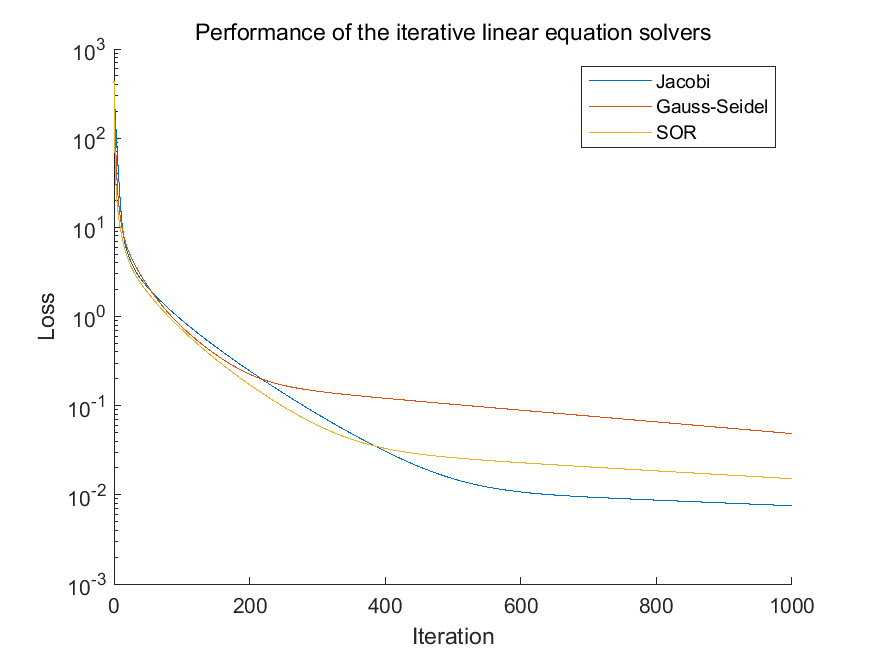
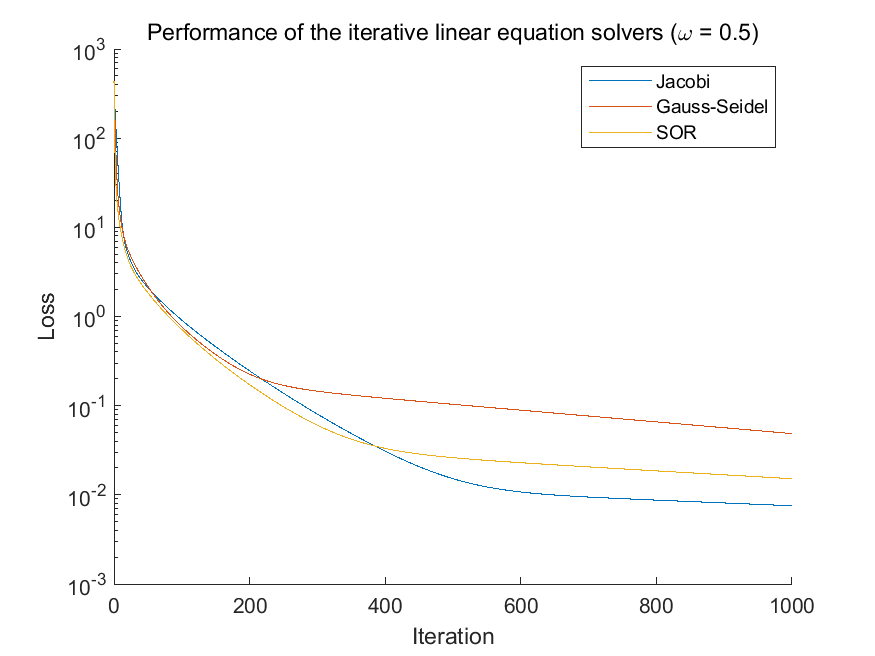
Renamed lsq to lsqr.

Changed region(s): [[0.1543, 0.0305, 0.864, 0.061]]

diff --git a/MATLAB/plot_performance.m b/MATLAB/plot_performance.m
@@ -12,9 +12,9 @@ b = a * x;
 h=figure;
 ax=axes(h);
 hold(ax,"on");
-[~, ~, history, stop_iter] = quadprog_to_lsq_wrapper(a, b, @pgd_quadprognonneg);
+[~, ~, history, stop_iter] = quadprog_to_lsqr_wrapper(a, b, @pgd_quadprognonneg);
 plot(ax,0:stop_iter, cell2mat(history.feval),"DisplayName","Least Squares Projected Gradient Descent");
-[~, ~, history, stop_iter] = quadprog_to_lsq_wrapper(a, b, @multipupd_quadprognonneg);
+[~, ~, history, stop_iter] = quadprog_to_lsqr_wrapper(a, b, @multipupd_quadprognonneg);
 plot(ax,0:stop_iter, cell2mat(history.feval),"DisplayName","Least Squares Multiplicative Update");
 [~, ~, history, stop_iter] = gd_kldivergence(a, b);
 plot(ax,0:stop_iter, cell2mat(history.feval) + sum(b .* log(b) - b),"DisplayName","KL Divergence Gradient Descent");
@@ -40,10 +40,11 @@ h2=figure;
 ax2=axes(h2);
 hold(ax2,"on");
 [~, ~, history, stop_iter] = bisection_fsolve(@(x) a * x - b, 0, GuessRange=[0, 1]);
-plot(ax2,0:stop_iter, cell2mat(history.feval),"DisplayName","Bisection");
+plot(ax2,0:stop_iter, abs(cell2mat(history.feval)),"DisplayName","Bisection");
+ax2.YScale = "log";
 title(ax2,"Performance of the scalar equation solvers");
 xlabel(ax2,"Iteration");
-ylabel(ax2,"Function value");
+ylabel(ax2,"Loss");
 legend(ax2);
 hold(ax2,"off");
 saveas(h2,"figs/scalar_eqn.png");
@@ -59,14 +60,14 @@ b = a * x;
 h3=figure;
 ax3=axes(h3);
 hold(ax3,"on");
-[~, ~, history, stop_iter] = jacobi_lsq(a, b);
+[~, ~, history, stop_iter] = jacobi_lsqr(a, b);
 plot(ax3,0:stop_iter, cell2mat(history.feval),"DisplayName","Jacobi");
-[~, ~, history, stop_iter] = gauss_seidel_lsq(a, b);
+[~, ~, history, stop_iter] = gauss_seidel_lsqr(a, b);
 plot(ax3,0:stop_iter, cell2mat(history.feval),"DisplayName","Gauss-Seidel");
-[~, ~, history, stop_iter] = sor_lsq(a, b);
+[~, ~, history, stop_iter] = sor_lsqr(a, b);
 plot(ax3,0:stop_iter, cell2mat(history.feval),"DisplayName","SOR");
 ax3.YScale = "log";
-title(ax3,"Performance of the iterative linear equation solvers");
+title(ax3,"Performance of the iterative linear equation solvers (\omega = 0.5)");
 xlabel(ax3,"Iteration");
 ylabel(ax3,"Loss");
 legend(ax3);

diff --git a/MATLAB/src/sor_lsqr.m b/MATLAB/src/sor_lsqr.m
@@ -1,5 +1,5 @@
-function [x, feval, history, stop_iter] = jacobi_lsq(A, b, options)
-    %% Use Jacobi Fixed-Point Iteration method to solve least squares problem
+function [x, feval, history, stop_iter] = sor_lsqr(A, b, options)
+    %% Use SOR(Successive Over-Relaxation) Fixed-Point Iteration method to solve least squares problem
     % Author: Midden Vexu
     % The problem is min ||Ax - b||_2^2
     % where A is a matrix and b is a vector.
@@ -28,7 +28,7 @@ function [x, feval, history, stop_iter] = jacobi_lsq(A, b, options)
         options.OptimalityTolerance double {mustBePositive}...
             = 1e-6
         options.dampingCoeff double...
-            {mustBeNonnegative, mustBeLessThanOrEqual(options.dampingCoeff, 1)}...
+            {mustBeNonnegative, mustBeLessThanOrEqual(options.dampingCoeff, 2)}...
             = 0.5
         options.verbose logical...
             {mustBeNumericOrLogical,mustBeMember(options.verbose, [0, 1])}...
@@ -49,11 +49,11 @@ function [x, feval, history, stop_iter] = jacobi_lsq(A, b, options)
         'The number of columns of A must be equal to the length of x0');
     stop_reason = 'Unexpected stop';
 
-    n = size(A, 2);
     x = options.x0;
+    d = diag(diag(A));
+    l = tril(A, -1);
+    u = triu(A, 1);
     feval_fun = @(x) norm(A * x - b, 2);
-    d = eye(n) .* A;
-    r = A - d;
     previous_feval = feval_fun(x);
     history.x = cell(1, options.MaxIterations + 1);
     history.feval = cell(1, options.MaxIterations + 1);
@@ -64,7 +64,7 @@ function [x, feval, history, stop_iter] = jacobi_lsq(A, b, options)
     end
     
     for i = 1:options.MaxIterations
-        x = options.dampingCoeff * x + (1 - options.dampingCoeff) * (d \ (b - r * x));
+        x = (d + options.dampingCoeff * l) \ ((1 - options.dampingCoeff) * d - options.dampingCoeff * u) * x + options.dampingCoeff * ((d + options.dampingCoeff * l) \ b);
 
         feval = feval_fun(x);
         history.x{i + 1} = x;

diff --git a/MATLAB/src/gauss_seidel_lsqr.m b/MATLAB/src/gauss_seidel_lsqr.m
@@ -1,5 +1,5 @@
-function [x, feval, history, stop_iter] = sor_lsq(A, b, options)
-    %% Use SOR(Successive Over-Relaxation) Fixed-Point Iteration method to solve least squares problem
+function [x, feval, history, stop_iter] = gauss_seidel_lsqr(A, b, options)
+    %% Use Gauss-Seidel Fixed-Point Iteration method to solve least squares problem
     % Author: Midden Vexu
     % The problem is min ||Ax - b||_2^2
     % where A is a matrix and b is a vector.
@@ -28,7 +28,7 @@ function [x, feval, history, stop_iter] = sor_lsq(A, b, options)
         options.OptimalityTolerance double {mustBePositive}...
             = 1e-6
         options.dampingCoeff double...
-            {mustBeNonnegative, mustBeLessThanOrEqual(options.dampingCoeff, 2)}...
+            {mustBeNonnegative, mustBeLessThanOrEqual(options.dampingCoeff, 1)}...
             = 0.5
         options.verbose logical...
             {mustBeNumericOrLogical,mustBeMember(options.verbose, [0, 1])}...
@@ -50,8 +50,7 @@ function [x, feval, history, stop_iter] = sor_lsq(A, b, options)
     stop_reason = 'Unexpected stop';
 
     x = options.x0;
-    d = diag(diag(A));
-    l = tril(A, -1);
+    d_l = tril(A, 0);
     u = triu(A, 1);
     feval_fun = @(x) norm(A * x - b, 2);
     previous_feval = feval_fun(x);
@@ -64,7 +63,7 @@ function [x, feval, history, stop_iter] = sor_lsq(A, b, options)
     end
     
     for i = 1:options.MaxIterations
-        x = (d + options.dampingCoeff * l) \ ((1 - options.dampingCoeff) * d - options.dampingCoeff * u) * x + options.dampingCoeff * ((d + options.dampingCoeff * l) \ b);
+        x = options.dampingCoeff * x + (1 - options.dampingCoeff) * (d_l \ b - d_l \ (u * x));
 
         feval = feval_fun(x);
         history.x{i + 1} = x;

diff --git a/MATLAB/src/jacobi_lsqr.m b/MATLAB/src/jacobi_lsqr.m
@@ -1,5 +1,5 @@
-function [x, feval, history, stop_iter] = gauss_seidel_lsq(A, b, options)
-    %% Use Gauss-Seidel Fixed-Point Iteration method to solve least squares problem
+function [x, feval, history, stop_iter] = jacobi_lsqr(A, b, options)
+    %% Use Jacobi Fixed-Point Iteration method to solve least squares problem
     % Author: Midden Vexu
     % The problem is min ||Ax - b||_2^2
     % where A is a matrix and b is a vector.
@@ -49,10 +49,11 @@ function [x, feval, history, stop_iter] = gauss_seidel_lsq(A, b, options)
         'The number of columns of A must be equal to the length of x0');
     stop_reason = 'Unexpected stop';
 
+    n = size(A, 2);
     x = options.x0;
-    d_l = tril(A, 0);
-    u = triu(A, 1);
     feval_fun = @(x) norm(A * x - b, 2);
+    d = eye(n) .* A;
+    r = A - d;
     previous_feval = feval_fun(x);
     history.x = cell(1, options.MaxIterations + 1);
     history.feval = cell(1, options.MaxIterations + 1);
@@ -63,7 +64,7 @@ function [x, feval, history, stop_iter] = gauss_seidel_lsq(A, b, options)
     end
     
     for i = 1:options.MaxIterations
-        x = options.dampingCoeff * x + (1 - options.dampingCoeff) * (d_l \ b - d_l \ (u * x));
+        x = options.dampingCoeff * x + (1 - options.dampingCoeff) * (d \ (b - r * x));
 
         feval = feval_fun(x);
         history.x{i + 1} = x;

diff --git a/MATLAB/tests/LinearEquationSolverTest.m b/MATLAB/tests/LinearEquationSolverTest.m
@@ -36,19 +36,19 @@ classdef LinearEquationSolverTest < matlab.unittest.TestCase
         % Test methods
         
         function jacobiTest(testCase)
-            sol = jacobi_lsq(testCase.A, testCase.b,...
+            sol = jacobi_lsqr(testCase.A, testCase.b,...
                 OptimalityTolerance=1e-4, MaxIterations=2000);
             verifySolution(testCase, sol);
         end
 
         function gaussSeidelTest(testCase)
-            sol = gauss_seidel_lsq(testCase.A, testCase.b,...
+            sol = gauss_seidel_lsqr(testCase.A, testCase.b,...
                 OptimalityTolerance=1e-4, MaxIterations=2000);
             verifySolution(testCase, sol);
         end
 
         function sorTest(testCase)
-            sol = sor_lsq(testCase.A, testCase.b,...
+            sol = sor_lsqr(testCase.A, testCase.b,...
                 OptimalityTolerance=1e-4, MaxIterations=2000);
             verifySolution(testCase, sol);
         end

diff --git a/MATLAB/tests/NonnegativeLinearEquationSolverTest.m b/MATLAB/tests/NonnegativeLinearEquationSolverTest.m
@@ -47,13 +47,13 @@ classdef NonnegativeLinearEquationSolverTest < matlab.unittest.TestCase
         end
 
         function quadprogToLeastSquareWrapperTest(testCase)
-            sol = quadprog_to_lsq_wrapper(testCase.A, testCase.b,...
+            sol = quadprog_to_lsqr_wrapper(testCase.A, testCase.b,...
                 @pgd_quadprognonneg, 0, OptimalityTolerance=1e-4);
             verifySolution(testCase, sol);
         end
 
         function multiplicativeUpdateTest(testCase)
-            sol = quadprog_to_lsq_wrapper(testCase.A, testCase.b,...
+            sol = quadprog_to_lsqr_wrapper(testCase.A, testCase.b,...
                 @multipupd_quadprognonneg, 0, OptimalityTolerance=1e-4);
             verifySolution(testCase, sol);
         end

diff --git a/MATLAB/src/quadprog_to_lsqr_wrapper.m b/MATLAB/src/quadprog_to_lsqr_wrapper.m
@@ -1,4 +1,4 @@
-function [x, feval, history, stop_iter] = quadprog_to_lsq_wrapper(A, b, quadprog_solver_func, lambd, varargin)
+function [x, feval, history, stop_iter] = quadprog_to_lsqr_wrapper(A, b, quadprog_solver_func, lambd, varargin)
     % Wrapper for quadprog to solve the nonnegative least squares problem
     % min_x 1/2*||Ax - b||_2^2 + lambd*||x||_1 s.t. x >= 0
     % by converting it into

diff --git a/README.md b/README.md
@@ -41,13 +41,13 @@ Here are my implementation of some useful solvers for mainly optimization proble
 - [x] Non-negative quadratic programming solver ([MATLAB](./MATLAB/src/multipupd_quadprognonneg.m))
     - Algorithm: Multiplicative update
     - Self-contained
-- [x] Linear system solver ([MATLAB](./MATLAB/src/jacobi_lsq.m))
+- [x] Linear system solver ([MATLAB](./MATLAB/src/jacobi_lsqr.m))
     - Algorithm: Jacobi iteration
     - Self-contained
-- [x] Linear system solver ([MATLAB](./MATLAB/src/gauss_seidel_lsq.m))
+- [x] Linear system solver ([MATLAB](./MATLAB/src/gauss_seidel_lsqr.m))
     - Algorithm: Gauss-Seidel iteration
     - Self-contained
-- [x] Linear system solver ([MATLAB](./MATLAB/src/sor_lsq.m))
+- [x] Linear system solver ([MATLAB](./MATLAB/src/sor_lsqr.m))
     - Algorithm: SOR iteration
     - Self-contained
 
